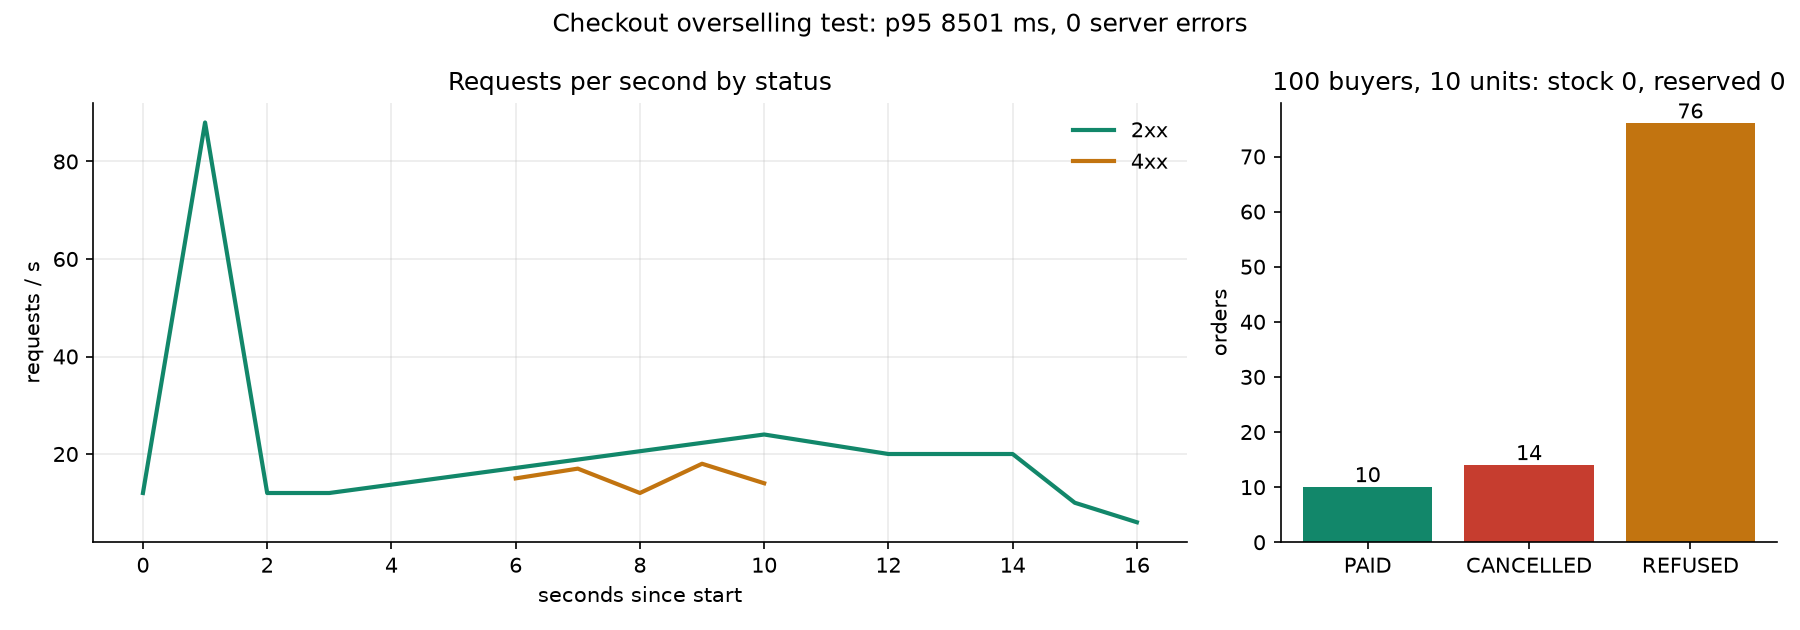
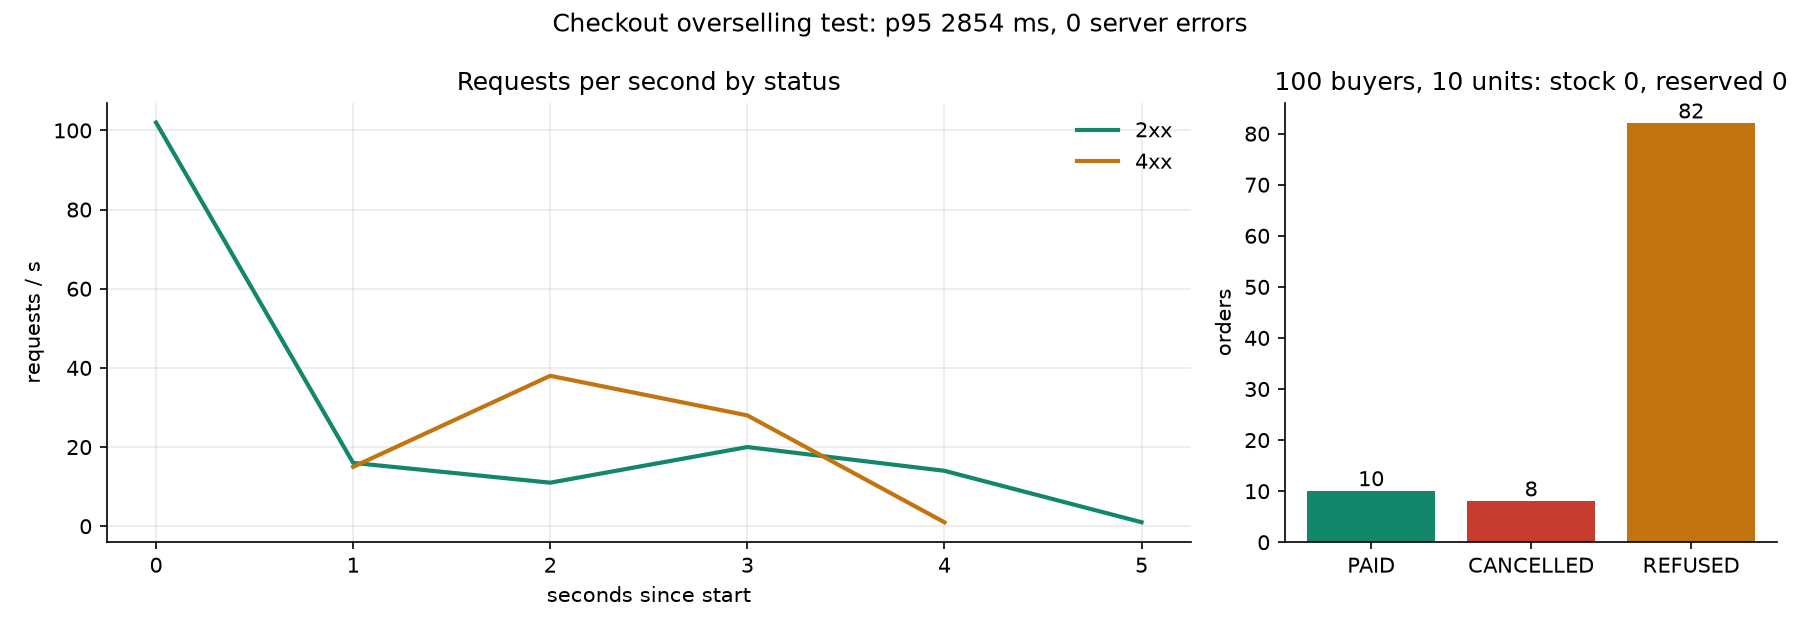
docs: load test numbers after the throughput work

diff --git a/README.md b/README.md
@@ -148,14 +148,15 @@ wait for the reservation, pay):
 | Rule | Result |
 |---|---|
 | exactly 10 orders PAID | 10 |
-| everyone else cancelled or refused at checkout | 14 cancelled + 76 refused |
+| everyone else cancelled or refused at checkout | 8 cancelled + 82 refused |
 | stock / reserved afterwards | 0 / 0 |
 | 5xx responses | 0 |
 
-Latency is the honest weak spot: checkout p95 is ~9 s at this burst because the order
-service checks out synchronously (cart and catalog calls) on three gunicorn workers and the
-gateway verifies every token with auth. Correctness holds; throughput would come from more
-workers or an asynchronous checkout response.
+Request p95 is ~3 s at this burst (checkout p50 ~1.7 s) on one laptop running the whole
+stack. Django services run three gunicorn workers with four threads each, as requests mostly
+wait on other services, and outbox relays wake on Postgres `NOTIFY` instead of polling, so
+an event reaches the broker in tens of milliseconds. A checkout spends ~0.3 s in the order
+service; the rest is queueing for CPU, which more replicas would remove.
 
 CI (GitHub Actions) runs lint, the unit suites, mypy and the frontend for the parts a
 change touched. System, e2e and load tests need the whole stack and run locally.
@@ -195,7 +196,9 @@ errors by provider and code (`payment_errors_total`), search latency percentiles
 - **Outbox.** The business change and its event row commit together; a relay publishes with
   publisher confirms and marks rows only after the broker confirmed them
   ([`publish_pending`](libs/py-common/py_common/outbox.py#L37)), so a crash duplicates an
-  event but never loses one.
+  event but never loses one. The commit `NOTIFY`s the relay
+  ([`NotifyWaiter`](libs/py-common/py_common/outbox_notify.py#L21)); its poll interval only
+  bounds the wait if a notification is lost.
 - **Idempotency.** Consumers record `event_id` with the change
   ([`EventRouter.dispatch`](libs/py-common/py_common/consumer.py#L47)); checkout replays an
   `Idempotency-Key` ([`run_once`](services/order/orders/idempotency.py#L63)); Payme and Click
@@ -208,8 +211,11 @@ errors by provider and code (`payment_errors_total`), search latency percentiles
   ([`apply_payment`](services/order/orders/saga.py#L185),
   [`on_stock_failed`](services/order/orders/saga.py#L153)).
 - **Search sync.** Product events are applied with the event time as an external version
-  ([`ProductIndex.upsert`](services/search/app/services/index.py#L172)), so an old event
-  arriving late cannot overwrite newer data; a full reindex swaps an alias.
+  ([`ProductIndex.upsert`](services/search/app/services/index.py#L190)), so an old event
+  arriving late cannot overwrite newer data. A deleted product leaves a versioned tombstone
+  rather than disappearing, so even a much later update cannot bring it back. A full reindex
+  runs in the background (`POST`/`GET /internal/search/reindex`, or `make reindex`), carries
+  the tombstones over and swaps an alias.
 
 ## Development
 
